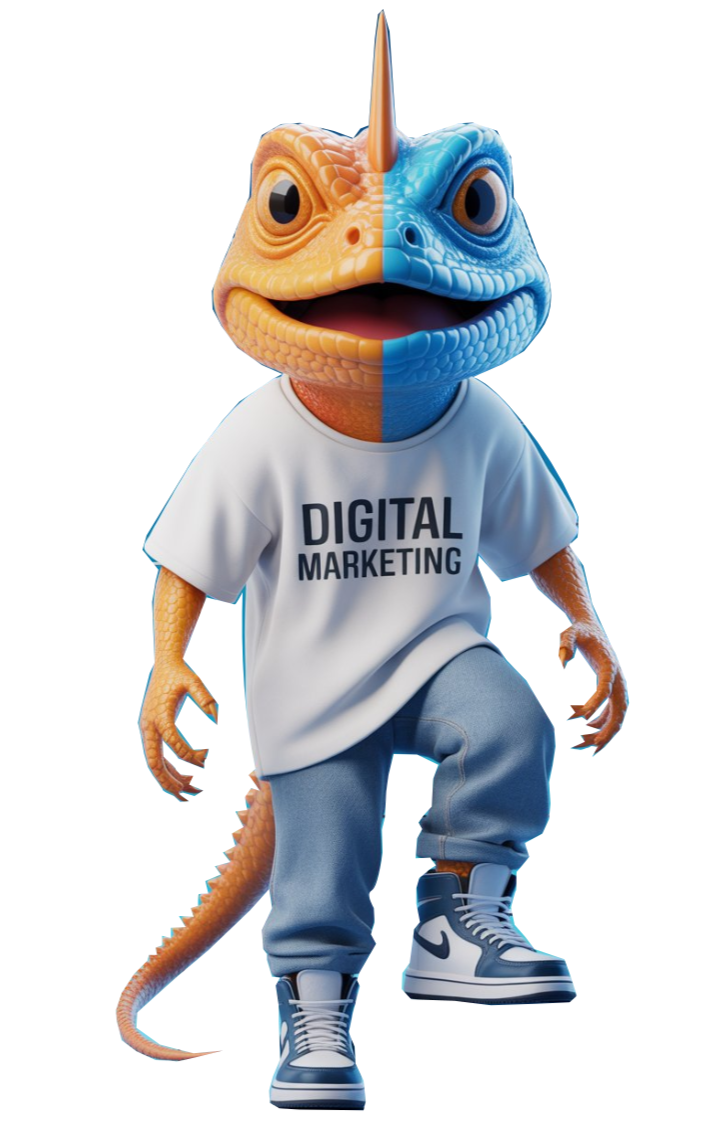
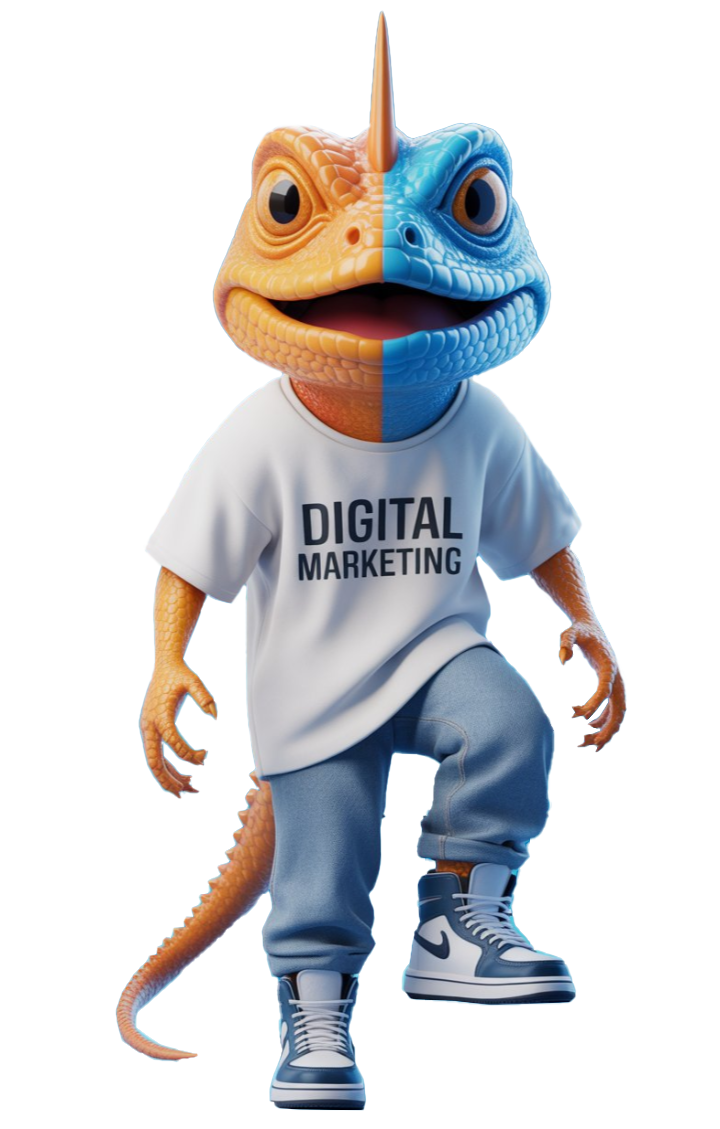
in the header  the  contact info in top -bar  header changes remove the boder-bottom from it and make it in sticky in header using postion and responsive as well

diff --git a/assets/css/header.css b/assets/css/header.css
@@ -48,27 +48,29 @@ header.navigation.header-full-width .container {
     align-items: center;
     justify-content: flex-end;
     gap: 8px;
-    padding: 8px 80px;
+    /* padding: 8px 80px; */
     font-size: 14px;
-    font-weight: 600;
+    /* font-weight: 600; */
     color: #000;
     /* box-shadow: 0 0 4px 1px #f47a24; */
-    background-color: #ffffff;
-    border-bottom: 2px solid #f47a24;
+    /* background-color: #ffffff; */
+    /* border-bottom: 2px solid #f47a24; */
+    position: relative;
+    top: -12px;
 }
 
 .header-top-info .separator {
     margin: 0 4px;
-    color: #999;
+    color: #ffffff;
 }
 
 .header-top-info i {
     margin-right: 4px;
-    color: #f47a24;
+    color: #ffffff;
 }
 
 .header-top-info a {
-    color: #000;
+    color: #ffffff;
     text-decoration: none;
 }
 
@@ -85,6 +87,14 @@ header.navigation.header-full-width .container {
     opacity: 0;
     box-shadow: none;
     overflow: hidden;
+}
+.top-info {
+    display: flex;
+    justify-content: flex-end;
+    background: #ff8501;
+    padding: 8px;
+    clip-path: polygon(0 0, 100% 0, 100% 100%, 0% 100%, 0 82%);
+    border-radius: 0px 0px 10px 10px;
 }
 
 @media (max-width: 991.98px) {
@@ -142,7 +152,7 @@ header.navigation.header-full-width .container {
 
 .brand img {
     display: block;
-    max-height: 50px;
+    max-height: 60px;
     width: auto;
 }
 

diff --git a/assets/css/responsive.css b/assets/css/responsive.css
@@ -43,6 +43,9 @@
 }
 
 @media only screen and (max-width: 1200px) {
+    .header-top-info{
+        top:-10px !important;
+    }
     .hero_right {
         position: relative;
         margin-bottom: -70px;
@@ -150,6 +153,9 @@
 
     .header_inner_box {
         padding: 10px 24px;
+    }
+    .header-top-info{
+        top:-18px !important;
     }
 
 }

diff --git a/assets/css/style.css b/assets/css/style.css
@@ -1547,7 +1547,7 @@ ul.ctglist li:before {
     background: url(../img/googleads-packages.jpg);
     background-repeat: no-repeat;
     background-size: cover;
-    height: 500px;
+    height: 550px;
 }
 
 /*======================seo-packages=============*/

diff --git a/include/header.php b/include/header.php
@@ -111,21 +111,30 @@
     <div class="header-hover-zone"></div>
     <header class="container navigation">
         <!-- <div class="container"> -->
-            <div class="container header-top-info">
+    
     <!-- <span>Call Us for Flat 20% OFF</span> -->
     <!-- <span class="separator">|</span> -->
-    <!-- <span><i class="fa-solid fa-phone"></i> Sales: <a href="tel:+919717107250">+91-9717107250</a></span> -->
-    <!-- <span class="separator">|</span> -->
-    <span class="d-none d-md-block"><i class="fa-solid fa-phone"></i> Call: <a href="tel:+918750500075">+91-8750500075</a></span>
-    <span class="separator">|</span>
-    <span><i class="fa-solid fa-envelope"></i> Email: <a href="mailto:info@theneedleads.com">info@theneedleads.com</a></span>
-</div>
+       <!-- <span><i class="fa-solid fa-phone"></i> Sales: <a href="tel:+919717107250">+91-9717107250</a></span> -->
+      <!-- <span class="separator">|</span> -->
+
 
             <div class="container header_inner_box">
+                <div class="nav_log">
                 <div class="brand">
                     <a href="<?php echo $linkBase ?? ''; ?>index.php"><img src="<?php echo $assetBase ?? ''; ?>assets/img/sitelogo.png" alt="Digital marketing Agency"></a>
                 </div>
-                <nav>
+                </div>
+                <div class="nav_bar">
+                        <div class="container header-top-info">
+        <div class="top-info">
+      <span class="d-none d-md-block text-white"><i class="fa-solid fa-phone"></i> Call: <a href="tel:+918750500075">+91-8750500075</a></span>
+      <span class="separator">|</span>
+      <span class="text-white"><i class="fa-solid fa-envelope"></i> Email: <a href="mailto:info@theneedleads.com">info@theneedleads.com</a></span>
+    </div>
+    </div>  
+
+               
+                <nav class="fw-bold">
                     <div class="nav-mobile"><a id="navbar-toggle" href="javascript:void()"><span></span></a></div>
                     <ul class="nav-list mobile_list">
                         <li>
@@ -224,6 +233,7 @@
                         </li>
                     </ul>
                 </nav>
+                 </div>
             </div>
 
         <!-- </div> -->

diff --git a/index.php b/index.php
@@ -204,7 +204,7 @@ gtag('config', 'G-0GQ7EZTWNF');
             <div class="row row-gap-4 justify-content-center align-items-center hero_section">
                 <div class="col-xl-7 col-lg-7 col-md-12 col-sm-12">
                     <div class="bannercontent" data-aos="fade-up" data-aos-duration="800">
-                        <h1>Best Digital Marketing Agency in Janakpuri, Delhi</h1>
+                        <h1>Best Digital Marketing Agency </h1>
                         <p>Looking to improve your brand's visibility? Partner with NeedleAds Technology! Our expert
                             team offers SEO, SMM, PPC, Web Design, and more. Contact us now!</p>
                         <div class="webbtn">
